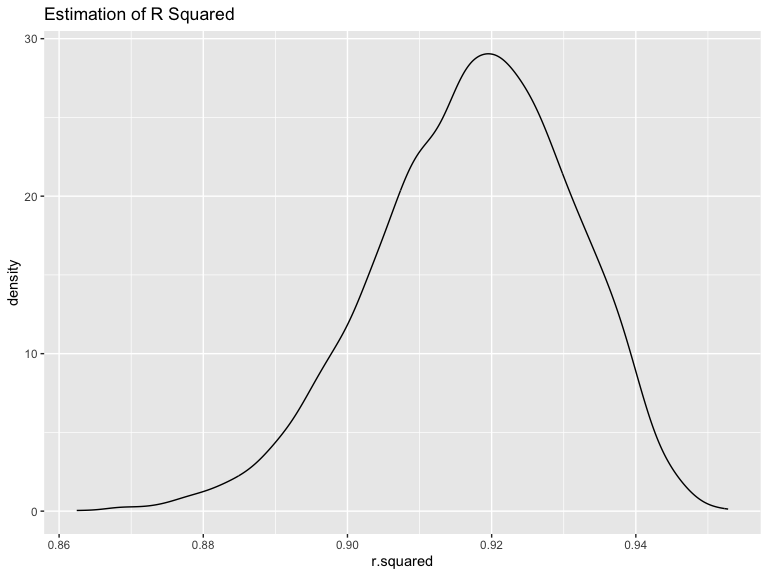
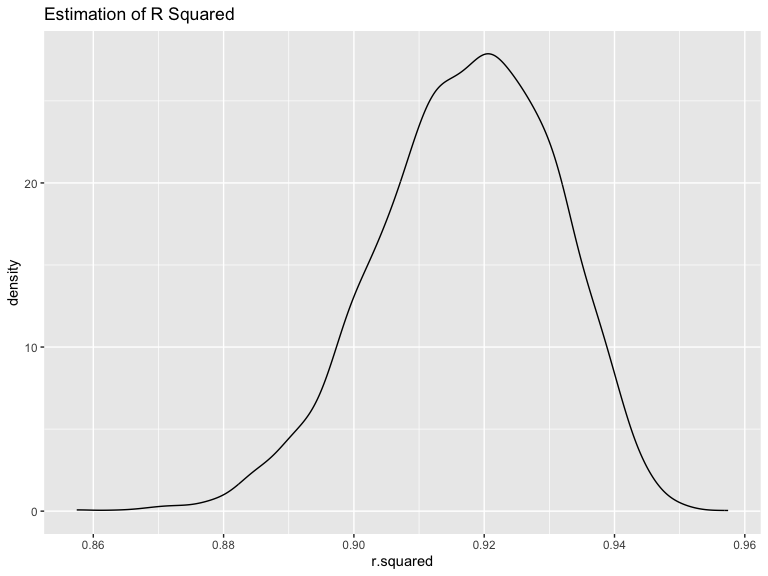
adding descriptions

diff --git a/p8105_HW6_lsj2122.md b/p8105_HW6_lsj2122.md
@@ -74,7 +74,9 @@ weather_data |>
 <img src="p8105_HW6_lsj2122_files/figure-gfm/plot-1.png" width="90%" />
 
 The distribution of ${r^2}$ is normal, with it being centered around
-0.920.
+0.920. It shows a visibly heavy tail extending to low values, and a bump
+which could be attributed to the occurance of large outliers withing the
+bootstrap samples.
 
 ``` r
 weather_data |>
@@ -85,13 +87,15 @@ weather_data |>
   )
 ```
 
-    ## Warning: Removed 3372 rows containing non-finite values (`stat_density()`).
+    ## Warning: Removed 3370 rows containing non-finite values (`stat_density()`).
 
 <img src="p8105_HW6_lsj2122_files/figure-gfm/plot2-1.png" width="90%" />
 
-The distribution of log($\hat{beta_1} * \hat{beta_2}$) is left-skewed.
-There are 67.44 NA values, due to negative precipitation values, and we
-can see this distribution after we remove the NA values.
+The distribution of log($\hat{beta_1} * \hat{beta_2}$) is uni-modal and
+left-skewed. There are 67.4 NA values, due to negative precipitation
+values, and we can see this distribution after we remove the NA values.
+The distribution shows an even more visibly heavy tail extending to the
+low values, with majority of the values clustering on the right side.
 
 ### 95% CI for log(b1\*b2)
 
@@ -106,8 +110,11 @@ quantile(
 
 |       |         x |
 |:------|----------:|
-| 2.5%  | -8.885271 |
-| 97.5% | -4.596799 |
+| 2.5%  | -9.082076 |
+| 97.5% | -4.596519 |
+
+This is the 95% confidence interval for
+log($\hat{beta_1} * \hat{beta_2}$) after removing the NA values.
 
 ### 95% CI for R-Squared
 
@@ -121,5 +128,9 @@ quantile(
 
 |       |         x |
 |:------|----------:|
-| 2.5%  | 0.8887215 |
-| 97.5% | 0.9406930 |
+| 2.5%  | 0.8886541 |
+| 97.5% | 0.9407078 |
+
+# Problem 3
+
+### Loading the data
